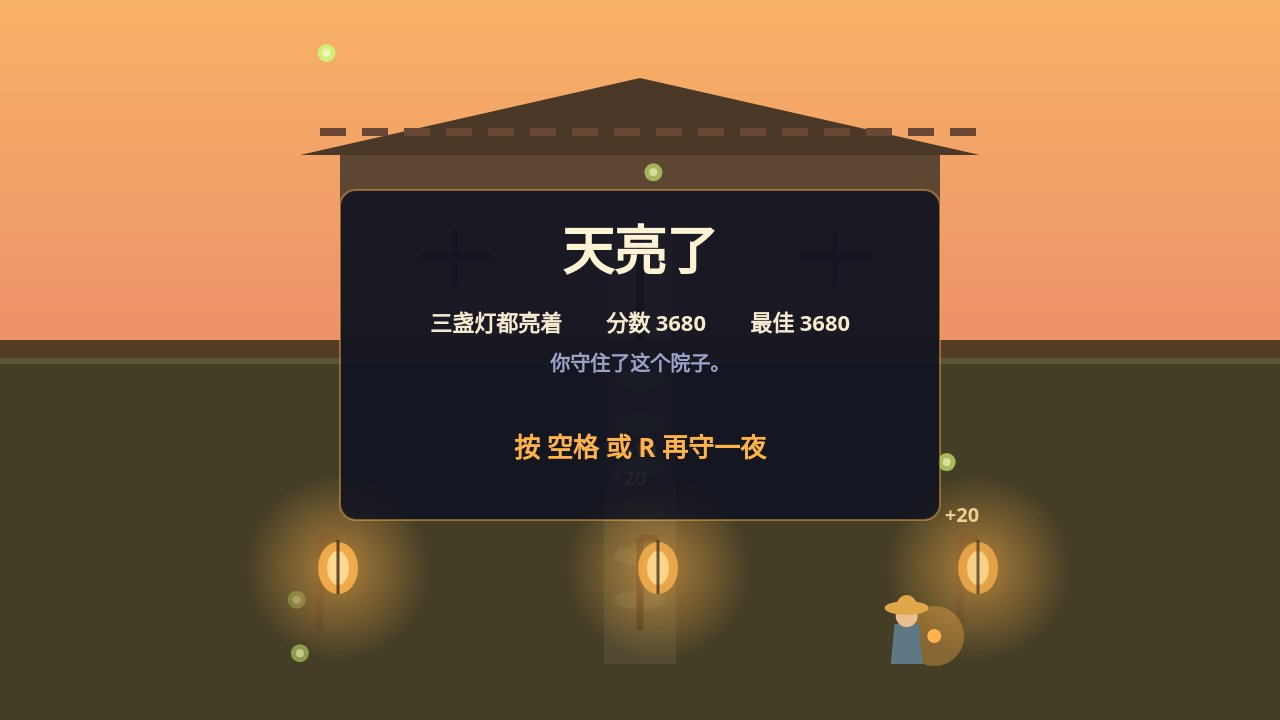
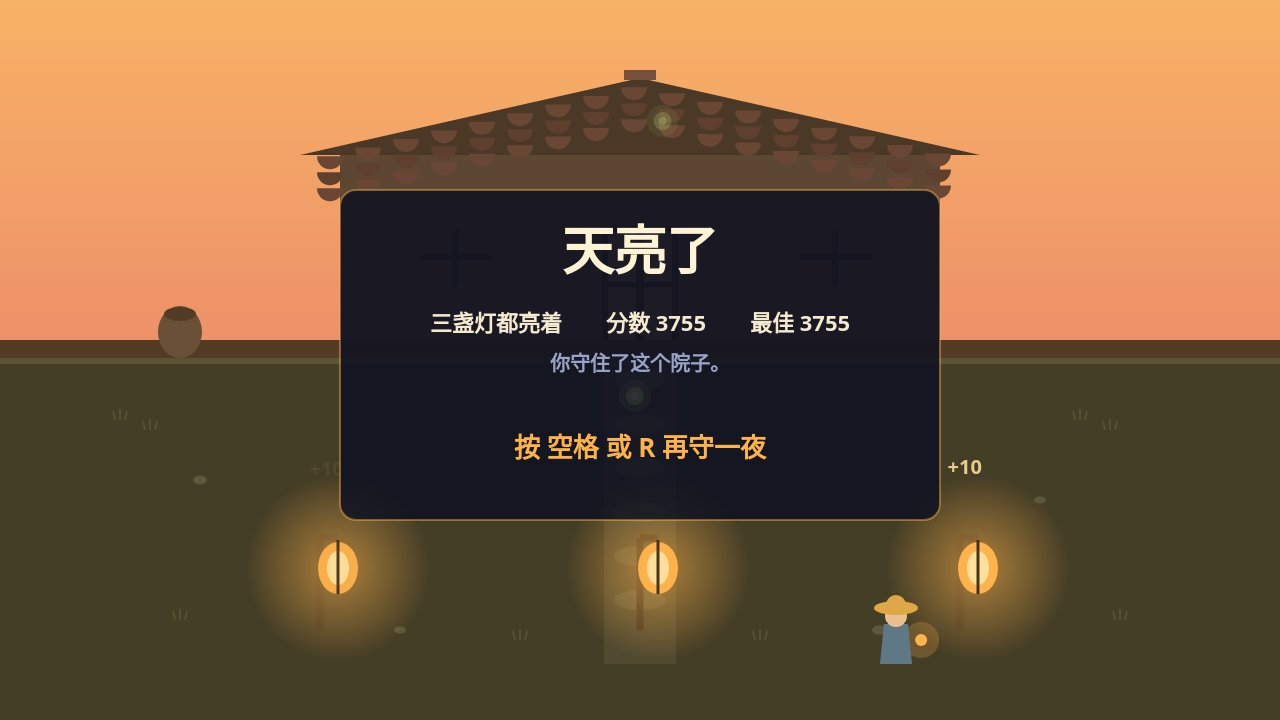
Playtest-driven polish: balance, anti-idle rules, visuals
- Relight costs 2 fireflies and only works at the dark lantern, with
  a 'walk over' / 'not enough fireflies' hint when it fails.
- One swat every 0.35s, taller swat zone, slower enemies and spawns.
- Darkness breeds moths and moths funnel onto the last lit lantern,
  so standing still in one lane no longer survives the night.
- Roof tiles are scalloped rows, fireflies glow, moths fade in, darts
  leave a trail, courtyard gains grass, stones and a water jar.
- First-wave tip, clearer HUD and title relight instructions.
- Screenshot autopilot uses the real relight cost and walks to dark
  lanterns; the careless pilot loses mid-game, not at wave 1.

diff --git a/game/src/render.js b/game/src/render.js
@@ -70,15 +70,28 @@ export function createRenderer(canvas) {
     ctx.lineTo(980, 155);
     ctx.closePath();
     ctx.fill();
-    ctx.fillStyle = PALETTE.roofTile;
-    for (let x = 320; x < 960; x += 42) {
-      ctx.fillRect(x, 128, 26, 8);
+    // Tile rows follow the roof slope: scalloped caps, not a dashed line.
+    const roofY = (x) => 78 + (Math.abs(x - 640) / 340) * 77;
+    for (let row = 0; row < 3; row += 1) {
+      for (let x = 330; x < 955; x += 38) {
+        const y = roofY(x) + 8 + row * 16;
+        ctx.fillStyle = row % 2 ? '#3d2723' : PALETTE.roofTile;
+        ctx.beginPath();
+        ctx.arc(x, y, 13, 0, Math.PI);
+        ctx.fill();
+      }
     }
-    // Door, warm when the night is still alive.
-    ctx.fillStyle = dawn ? '#5a4632' : '#ffb347';
+    // Ridge cap.
+    ctx.fillStyle = '#5a3a32';
+    ctx.fillRect(624, 70, 32, 10);
+    // Door, warm when the night is still alive, with a dark frame.
+    ctx.fillStyle = '#241d1a';
+    ctx.fillRect(602, 226, 76, 114);
+    ctx.fillStyle = dawn ? '#5a4632' : '#e8a04c';
     ctx.fillRect(608, 232, 64, 108);
     ctx.fillStyle = '#241d1a';
     ctx.fillRect(636, 232, 8, 108);
+    ctx.fillRect(608, 282, 64, 5);
     // Two windows.
     for (const wx of [420, 800]) {
       ctx.fillStyle = dawn ? '#3a2f28' : '#ffd98a';
@@ -103,6 +116,33 @@ export function createRenderer(canvas) {
       ctx.ellipse(640, y, 26, 10, 0, 0, Math.PI * 2);
       ctx.fill();
     }
+    // Courtyard details: grass tufts, stones, a water jar by the wall.
+    ctx.strokeStyle = '#2e3d24';
+    ctx.lineWidth = 2;
+    for (const [gx, gy] of [[120, 420], [150, 430], [1080, 420], [1110, 430], [180, 620], [1120, 620], [520, 640], [760, 640]]) {
+      ctx.beginPath();
+      ctx.moveTo(gx - 5, gy);
+      ctx.lineTo(gx - 7, gy - 9);
+      ctx.moveTo(gx, gy);
+      ctx.lineTo(gx, gy - 11);
+      ctx.moveTo(gx + 5, gy);
+      ctx.lineTo(gx + 7, gy - 9);
+      ctx.stroke();
+    }
+    ctx.fillStyle = '#3a4432';
+    for (const [sx, sy, sr] of [[200, 480, 7], [1040, 500, 6], [880, 630, 8], [400, 630, 6]]) {
+      ctx.beginPath();
+      ctx.ellipse(sx, sy, sr, sr * 0.6, 0, 0, Math.PI * 2);
+      ctx.fill();
+    }
+    ctx.fillStyle = '#4a3a2c';
+    ctx.beginPath();
+    ctx.ellipse(180, 332, 22, 26, 0, 0, Math.PI * 2);
+    ctx.fill();
+    ctx.fillStyle = '#2e2118';
+    ctx.beginPath();
+    ctx.ellipse(180, 314, 16, 7, 0, 0, Math.PI * 2);
+    ctx.fill();
   }
 
   function lantern(x, lit, time) {
@@ -150,15 +190,15 @@ export function createRenderer(canvas) {
 
   function keeper(k) {
     const cx = k.x + k.width / 2;
-    // Small hand lantern, swinging.
+    // Small hand lantern, swinging at his side.
     const swing = Math.sin(performance.now() / 300) * 4;
-    ctx.fillStyle = 'rgba(255, 179, 71, 0.35)';
+    ctx.fillStyle = 'rgba(255, 179, 71, 0.22)';
     ctx.beginPath();
-    ctx.arc(cx + 26 + swing, k.y + 30, 30, 0, Math.PI * 2);
+    ctx.arc(cx + 24 + swing, k.y + 34, 18, 0, Math.PI * 2);
     ctx.fill();
     ctx.fillStyle = PALETTE.lanternLit;
     ctx.beginPath();
-    ctx.arc(cx + 26 + swing, k.y + 30, 7, 0, Math.PI * 2);
+    ctx.arc(cx + 24 + swing, k.y + 34, 6, 0, Math.PI * 2);
     ctx.fill();
     // Coat.
     ctx.fillStyle = PALETTE.keeperCoat;
@@ -187,8 +227,17 @@ export function createRenderer(canvas) {
     const cx = enemy.x + enemy.width / 2;
     const cy = enemy.y + enemy.height / 2;
     const flap = Math.sin(enemy.phase * 2) * 0.5;
+    // Fade in as it drops out of the night, so it never pops in.
     ctx.save();
+    ctx.globalAlpha = Math.max(0, Math.min(1, (enemy.y + enemy.height + 10) / 50));
     ctx.translate(cx, cy);
+    if (enemy.kind === 'dart') {
+      // A short trail behind a darting moth.
+      ctx.fillStyle = 'rgba(201, 160, 220, 0.35)';
+      ctx.beginPath();
+      ctx.ellipse(0, -18, 8, 12, 0, 0, Math.PI * 2);
+      ctx.fill();
+    }
     if (enemy.kind === 'shade') {
       ctx.fillStyle = PALETTE.shade;
       ctx.beginPath();
@@ -233,8 +282,12 @@ export function createRenderer(canvas) {
     const cx = fly.x + fly.width / 2;
     const cy = fly.y + fly.height / 2;
     const glow = 0.6 + 0.4 * Math.sin(fly.phase * 2);
-    ctx.globalAlpha = glow;
+    ctx.globalAlpha = glow * 0.35;
     ctx.fillStyle = PALETTE.firefly;
+    ctx.beginPath();
+    ctx.arc(cx, cy, 16, 0, Math.PI * 2);
+    ctx.fill();
+    ctx.globalAlpha = glow;
     ctx.beginPath();
     ctx.arc(cx, cy, 9, 0, Math.PI * 2);
     ctx.fill();
@@ -268,7 +321,7 @@ export function createRenderer(canvas) {
     ctx.fillRect(0, 0, FIELD.width, 54);
     text(`第 ${Math.min(state.wave, WAVES.total)} / ${WAVES.total} 波`, 110, 28, 22, PALETTE.text, 'center');
     text(`分数 ${state.score}`, 330, 28, 22, PALETTE.text, 'center');
-    text(`萤火 ${state.fireflies}  ·  点灯按 1 / 2 / 3（1 萤火）`, 640, 28, 20, PALETTE.muted, 'center');
+    text(`萤火 ${state.fireflies}  ·  到灭灯前按 1 / 2 / 3（2 萤火）`, 640, 28, 20, PALETTE.muted, 'center');
     text(`最佳 ${best}`, 1000, 28, 20, PALETTE.muted, 'center');
     // Lantern icons, lit or dark.
     for (let i = 0; i < 3; i += 1) {
@@ -280,6 +333,8 @@ export function createRenderer(canvas) {
     }
     if (state.betweenWaves > 0) {
       text(`下一波 ${Math.ceil(state.betweenWaves)} 秒`, 640, 84, 22, PALETTE.lanternCore, 'center');
+    } else if (state.wave === 1 && state.waveTime < 5) {
+      text('飞蛾来了，移到它前面就能撞掉它', 640, 84, 20, PALETTE.lanternCore, 'center');
     }
   }
 
@@ -302,14 +357,14 @@ export function createRenderer(canvas) {
     if (screen === SCREEN_TITLE) {
       ctx.fillStyle = 'rgba(8, 10, 28, 0.45)';
       ctx.fillRect(0, 0, FIELD.width, FIELD.height);
-      panel(290, 150, 700, 400);
-      text('灯火守夜人', 640, 215, 56, PALETTE.lanternCore, 'center');
-      text('LANTERN KEEPER', 640, 262, 20, PALETTE.muted, 'center');
-      text('飞蛾扑向屋前的三盏灯，守住它们，等到天亮。', 640, 315, 22, PALETTE.text, 'center');
-      text('移动：鼠标 / 方向键　　点灯：1 / 2 / 3 键', 640, 355, 20, PALETTE.text, 'center');
-      text('撞飞蛾得分，捡萤火攒点灯的柴火，撑过 10 波。', 640, 390, 20, PALETTE.text, 'center');
-      text('按 空格 或 点击 开始', 640, 465, 26, PALETTE.lanternLit, 'center');
-      text(`最佳 ${best}`, 640, 510, 18, PALETTE.muted, 'center');
+      panel(290, 130, 700, 380);
+      text('灯火守夜人', 640, 195, 56, PALETTE.lanternCore, 'center');
+      text('LANTERN KEEPER', 640, 242, 20, PALETTE.muted, 'center');
+      text('飞蛾扑向屋前的三盏灯，守住它们，等到天亮。', 640, 295, 22, PALETTE.text, 'center');
+      text('移动：鼠标 / 方向键　　点灯：走到灭灯前按 1 / 2 / 3（2 萤火）', 640, 335, 20, PALETTE.text, 'center');
+      text('撞飞蛾得分，捡萤火攒点灯的柴火，撑过 10 波。', 640, 370, 20, PALETTE.text, 'center');
+      text('按 空格 或 点击 开始', 640, 445, 26, PALETTE.lanternLit, 'center');
+      text(`最佳 ${best}`, 640, 490, 18, PALETTE.muted, 'center');
     } else if (screen === SCREEN_PAUSED) {
       ctx.fillStyle = 'rgba(8, 10, 28, 0.55)';
       ctx.fillRect(0, 0, FIELD.width, FIELD.height);

diff --git a/game/src/world.js b/game/src/world.js
@@ -1,7 +1,7 @@
 // The night itself: waves of moths and shadows drifting down three lanes
 // toward the lanterns, the keeper swatting them, fireflies to catch.
 // No drawing here, only rules, so the screenshot pilot can run it headless.
-import { ENEMY, FIELD, FIREFLY, KEEPER, LANES, LANTERN_Y, SCORE, WAVES } from './config.js';
+import { ENEMY, FIELD, FIREFLY, KEEPER, LANES, LANTERN_Y, SCORE, SWAT_COOLDOWN, WAVES } from './config.js';
 
 export const EVENT_HIT = 1;
 export const EVENT_OUT = 2;
@@ -54,6 +54,9 @@ export function createWorld(random) {
     over: false,
     won: false,
     waveClearBonusPaid: false,
+    relightFailAt: -10,
+    /** Last time the keeper swung. */
+    swatAt: -10,
   };
 
   function reset() {
@@ -74,6 +77,8 @@ export function createWorld(random) {
     state.over = false;
     state.won = false;
     state.waveClearBonusPaid = false;
+    state.relightFailAt = -10;
+    state.swatAt = -10;
   }
 
   function litCount() {
@@ -81,7 +86,14 @@ export function createWorld(random) {
   }
 
   function spawnEnemy() {
-    const lane = random.int(0, 2);
+    // Moths are drawn to the light: when only one lantern is still lit,
+    // most of the swarm funnels onto it, so letting two lanterns go dark
+    // does not leave the last one safe. With two or three lit, spawns
+    // are spread evenly, so losing one lantern is recoverable.
+    let lane;
+    const litLanes = [0, 1, 2].filter((l) => state.lanterns[l]);
+    if (litLanes.length === 1 && random.next() < 0.7) lane = litLanes[0];
+    else lane = random.int(0, 2);
     const kind = pickKind(random, state.wave);
     const size = kindSize(kind);
     state.enemies.push({
@@ -138,13 +150,22 @@ export function createWorld(random) {
       Math.max(0, state.keeper.x + move * KEEPER.speed * dt),
     );
 
-    // Relighting costs fireflies and only works on a dark lantern.
+    // Relighting costs fireflies, only works on a dark lantern, and only
+    // when the keeper has walked over to it: you cannot relight a far
+    // lantern from the other side of the courtyard, so standing still
+    // in one lane and pressing keys is not a way to survive the night.
     if (relight >= 0 && relight <= 2 && !ambient) {
-      if (!state.lanterns[relight] && state.fireflies >= FIREFLY.relightCost) {
+      const keeperCentre = state.keeper.x + KEEPER.width / 2;
+      const near = Math.abs(keeperCentre - LANES[relight]) <= 130;
+      if (!state.lanterns[relight] && near && state.fireflies >= FIREFLY.relightCost) {
         state.fireflies -= FIREFLY.relightCost;
         state.lanterns[relight] = true;
         events |= EVENT_RELIGHT;
         pop(LANES[relight], LANTERN_Y - 46, '点亮 +', '#ffe9a8');
+      } else if (!state.lanterns[relight] && state.time - state.relightFailAt > 1.5) {
+        // Tried and failed: say why, once, so the player can fix it.
+        state.relightFailAt = state.time;
+        pop(LANES[relight], LANTERN_Y - 46, near ? '萤火不够' : '走过去点灯', '#8b93a3');
       }
     }
 
@@ -166,7 +187,11 @@ export function createWorld(random) {
           state.spawnTimer -= dt;
           if (state.spawnTimer <= 0) {
             spawnEnemy();
-            state.spawnTimer = WAVES.interval(state.wave);
+            // Darkness breeds moths: every dark lantern makes the next
+            // ones come sooner, so standing still in one lane and letting
+            // the other two go dark is not a way to survive the night.
+            const dark = 3 - litCount();
+            state.spawnTimer = WAVES.interval(state.wave) * (dark === 0 ? 1 : dark === 1 ? 0.85 : 0.7);
           }
         } else if (state.enemies.length === 0) {
           // Wave cleared: bonus, then the next wave, or dawn after wave 10.
@@ -183,7 +208,7 @@ export function createWorld(random) {
         state.fireflyTimer -= dt;
         if (state.fireflyTimer <= 0) {
           spawnFirefly();
-          state.fireflyTimer = random.range(1.8, 3.2);
+          state.fireflyTimer = random.range(2.8, 4.5);
         }
       }
     } else if (state.enemies.length < 5 && random.next() < dt * 0.9) {
@@ -201,18 +226,21 @@ export function createWorld(random) {
       // lantern line. That is what makes the game playable by hand.
       const swatZone = {
         x: state.keeper.x - 14,
-        y: state.keeper.y - 110,
+        y: state.keeper.y - 160,
         width: state.keeper.width + 28,
-        height: state.keeper.height + 110,
+        height: state.keeper.height + 160,
       };
-      if (overlaps(enemy, swatZone)) {
+      if (overlaps(enemy, swatZone) && state.time - state.swatAt >= SWAT_COOLDOWN) {
+        state.swatAt = state.time;
         enemy.hp -= 1;
         if (enemy.hp <= 0) {
           const points = enemy.kind === KIND_DART ? SCORE.dart : enemy.kind === KIND_SHADE ? SCORE.shade : SCORE.moth;
           if (!ambient) {
             state.score += points;
             // A swatted moth sometimes drops a firefly: the relight economy.
-            if (enemy.kind === KIND_SHADE || random.next() < 0.25) state.fireflies += 1;
+            // Kept scarce on purpose, so relighting a lantern is a real
+            // choice, not something you can do every few seconds.
+            if (enemy.kind === KIND_SHADE || random.next() < 0.2) state.fireflies += 1;
           }
           pop(enemy.x + enemy.width / 2, enemy.y, `+${points}`, '#ffe9a8');
           state.enemies.splice(i, 1);

diff --git a/game/src/shots.js b/game/src/shots.js
@@ -2,7 +2,7 @@
 // real rules forward from a fresh world for a fixed number of steps,
 // steered by a simple autopilot, so the frame is what a short game really
 // looks like and the same seed always gives the same frame.
-import { STEP } from './config.js';
+import { FIREFLY, LANES, STEP } from './config.js';
 import { EVENT_OVER, EVENT_WIN } from './world.js';
 import { SCREEN_OVER, SCREEN_PLAY, SCREEN_TITLE, SCREEN_WIN } from './render.js';
 
@@ -28,7 +28,12 @@ function steerToward(state, targetX) {
 function autopilot(state, skill) {
   if (skill > 0) {
     for (let lane = 0; lane < 3; lane += 1) {
-      if (!state.lanterns[lane] && state.fireflies >= 1) return { move: 0, relight: lane };
+      if (!state.lanterns[lane] && state.fireflies >= FIREFLY.relightCost) {
+        // Walk over to the dark lantern first, then relight it.
+        const centre = state.keeper.x + state.keeper.width / 2;
+        if (Math.abs(centre - LANES[lane]) <= 130) return { move: 0, relight: lane };
+        return { move: steerToward(state, LANES[lane]), relight: -1 };
+      }
     }
     const dark = state.lanterns.some((lit) => !lit);
     if (dark) {
@@ -59,9 +64,11 @@ function autopilot(state, skill) {
     }
     return { move: steerToward(state, target.x + target.width / 2), relight: -1 };
   }
+  // Reacts only when a moth is close to a lantern, and never relights
+  // or chases fireflies — as a hurried player is.
   let target = null;
   for (const enemy of state.enemies) {
-    if (enemy.y < 380) continue;
+    if (enemy.y < 460) continue;
     if (!target || enemy.y > target.y) target = enemy;
   }
   if (!target) return { move: 0, relight: -1 };

diff --git a/game/src/config.js b/game/src/config.js
@@ -19,12 +19,16 @@ export const KEEPER = {
   y: FIELD.groundY - 58,
 };
 
+/** Seconds between the keeper's swats: one swing at a time, so a
+    crowd in one lane can get past a keeper who never moves. */
+export const SWAT_COOLDOWN = 0.35;
+
 export const ENEMY = {
   size: 38,
   dartSize: 28,
   shadeSize: 48,
-  baseSpeed: 135,
-  speedPerWave: 14,
+  baseSpeed: 115,
+  speedPerWave: 12,
   dartMultiplier: 1.65,
   shadeMultiplier: 0.75,
 };
@@ -33,8 +37,9 @@ export const FIREFLY = {
   size: 13,
   speed: 70,
   points: 5,
-  /** Fireflies spent to relight one lantern. */
-  relightCost: 1,
+  /** Fireflies spent to relight one lantern: dear enough that a
+      lantern going out hurts, cheap enough to save one in a wave. */
+  relightCost: 2,
 };
 
 export const WAVES = {
@@ -42,7 +47,7 @@ export const WAVES = {
   /** Enemies in wave n. */
   count: (wave) => 6 + wave * 2,
   /** Seconds between spawns in wave n. */
-  interval: (wave) => Math.max(0.5, 1.05 - wave * 0.05),
+  interval: (wave) => Math.max(0.6, 1.25 - wave * 0.05),
   /** Seconds of quiet between waves. */
   breakSeconds: 3,
 };
